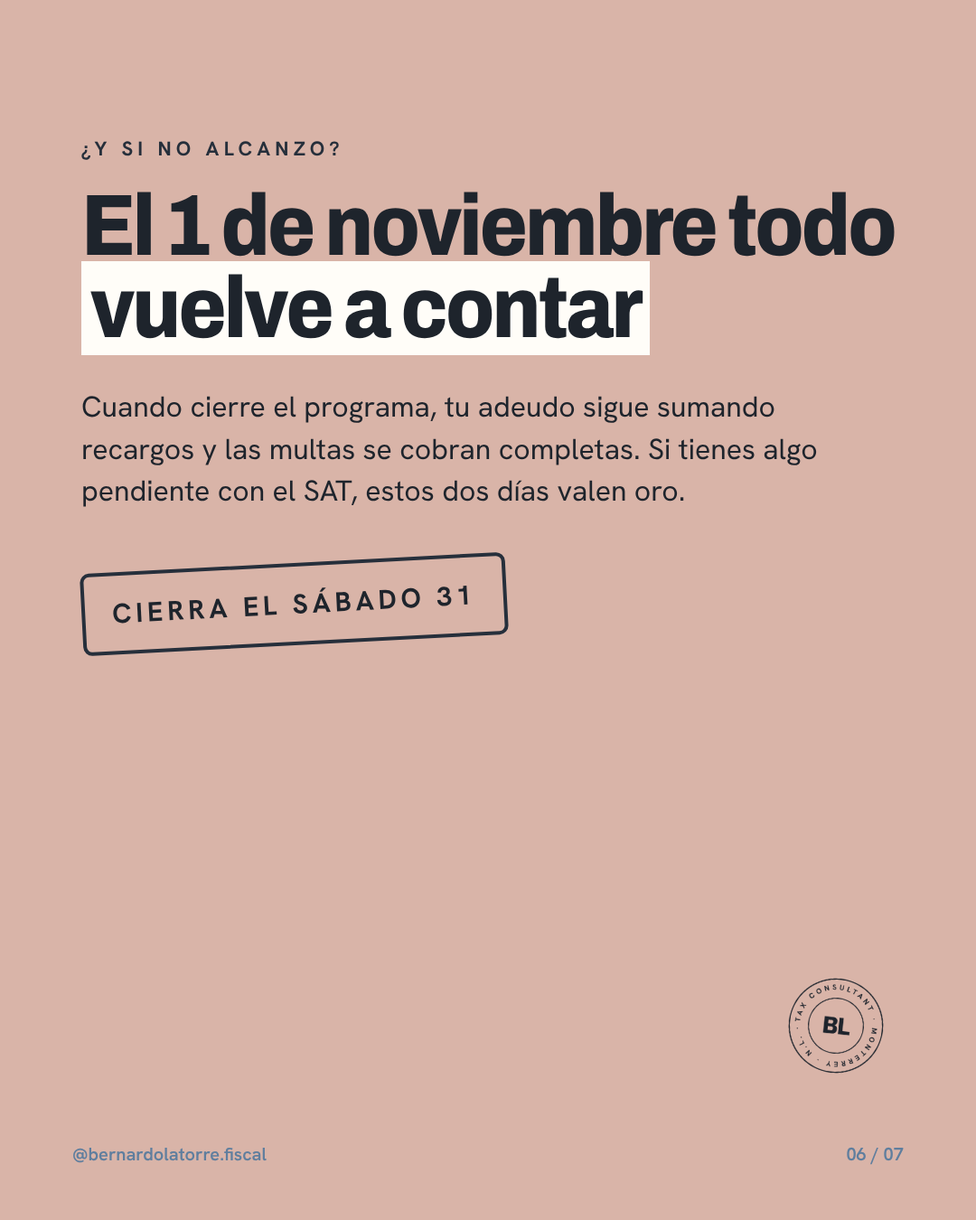
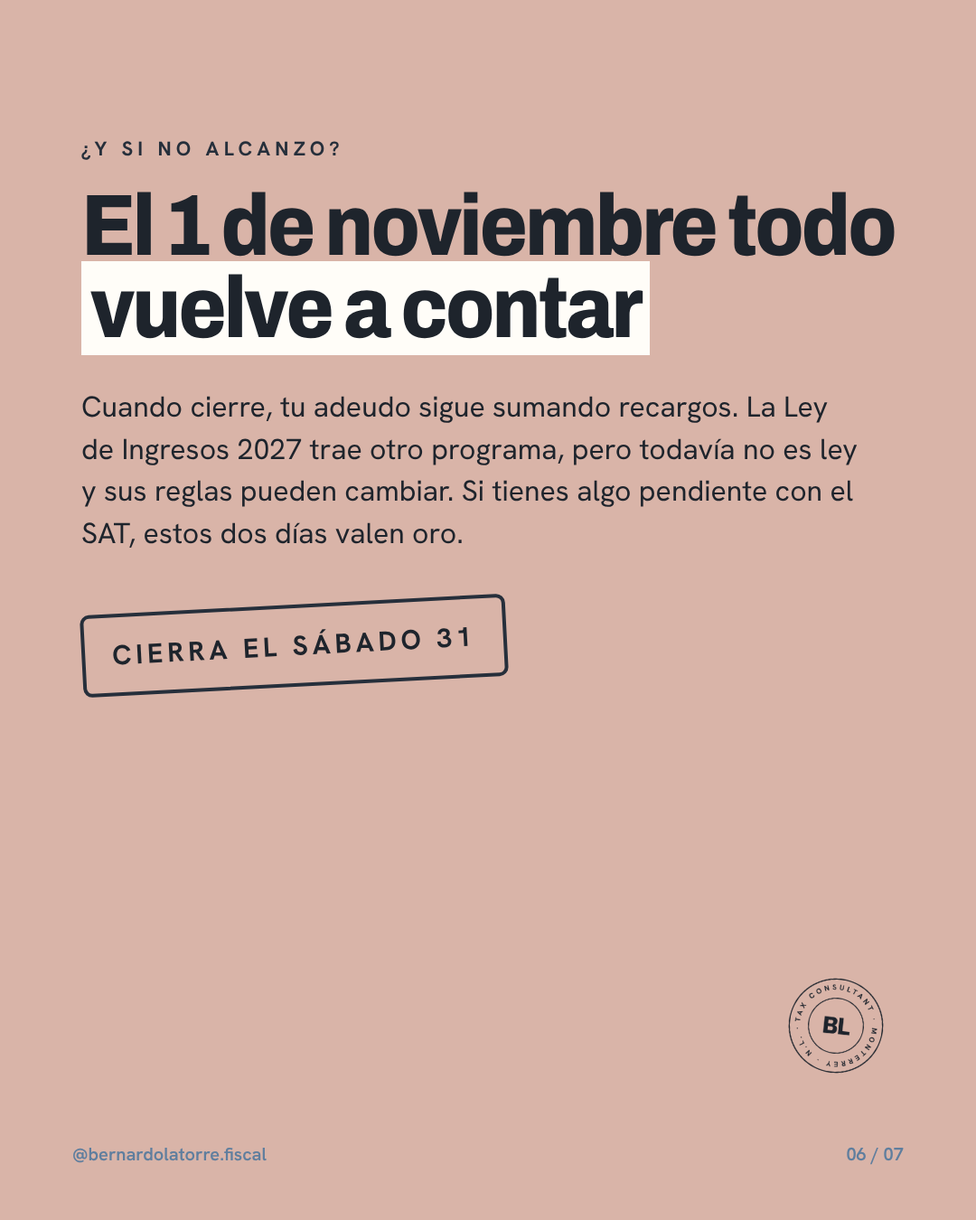
Nueva serie lunes 7:00 'Tu dosis semanal' (#1) + ajuste regularización jueves por programa LIF 2027
Claude-Session: https://claude.ai/code/session_01J2dboEZNzBYhxcXmwSfC74

Changed region(s): [[0.0611, 0.3111, 0.8861, 0.5911]]

diff --git a/recursos/plantillas/Dos1-02-Fiscal.dc.html b/recursos/plantillas/Dos1-02-Fiscal.dc.html
@@ -1,0 +1,51 @@
+<!doctype html>
+<html lang="es">
+<head>
+<meta charset="utf-8">
+<title>Sorbo 1: FISCAL</title>
+<script src="./support.js"></script>
+</head>
+<body>
+<x-dc>
+<helmet>
+<link rel="stylesheet" href="https://fonts.googleapis.com/css2?family=Archivo:wdth,wght@62..125,100..900&amp;family=Instrument+Serif:ital@0;1&amp;family=Hanken+Grotesk:wght@400;500;600;700&amp;display=swap">
+<style>
+body{margin:0}
+a{color:inherit}
+.bg-lino{background-color:#EEEAE1;background-image:url(/_blob/6c9eecc651dcae0e49c6e32a51e1513e);background-size:cover}
+.bg-papel{background-color:#F4F1EA;background-image:linear-gradient(rgba(95,126,158,0.10) 1px,transparent 1px),linear-gradient(90deg,rgba(95,126,158,0.10) 1px,transparent 1px),url(/_blob/5fe8c28b9943619ea44f604b391f1f8a);background-size:36px 36px,36px 36px,cover}
+.bg-sarga{background-color:#262F3B;background-image:url(/_blob/dadb3c074dd971422db84d954c63babd);background-size:cover}
+.hoja{background-color:#FFFDF8;background-image:linear-gradient(rgba(255,253,248,0.62),rgba(255,253,248,0.62)),url(/_blob/5fe8c28b9943619ea44f604b391f1f8a);background-size:cover}
+.sticker{filter: drop-shadow(5px 0 0 #fff) drop-shadow(-5px 0 0 #fff) drop-shadow(0 5px 0 #fff) drop-shadow(0 -5px 0 #fff) drop-shadow(0 14px 18px rgba(20,24,30,0.3))}
+.serif{font-family:'Archivo',sans-serif;font-weight:800;font-stretch:88%;letter-spacing:-0.03em}
+.serif em{font-style:normal!important}
+.kicker{font-size:22px;font-weight:600;letter-spacing:0.24em}
+</style>
+</helmet>
+<div class="" style="width: 1080px; height: 1350px; position: relative; overflow: hidden; font-family: 'Hanken Grotesk', sans-serif; color: #F4F1EA; isolation: isolate;">
+
+<div aria-hidden="true" style="position:absolute;inset:0;z-index:-1;overflow:hidden;background:#1C2027"><div style="position:absolute;left:-350px;top:-250px;width:750px;height:1100px;border-radius:50%;background:#E2B48F;filter:blur(110px)"></div><div style="position:absolute;left:-80px;top:-200px;width:700px;height:600px;border-radius:50%;background:#C98F7E;filter:blur(120px)"></div><div style="position:absolute;left:120px;top:-80px;width:900px;height:520px;border-radius:50%;background:#3E5C9A;filter:blur(120px)"></div><div style="position:absolute;left:-330px;top:650px;width:620px;height:900px;border-radius:50%;background:#D8A784;filter:blur(120px)"></div><div style="position:absolute;left:-100px;top:900px;width:650px;height:500px;border-radius:50%;background:#2F4A86;filter:blur(120px)"></div><svg width="1080" height="1350" style="position:absolute;inset:0;opacity:0.16;mix-blend-mode:overlay"><filter id="gr"><feTurbulence type="fractalNoise" baseFrequency="0.9" numOctaves="2" stitchTiles="stitch"/></filter><rect width="100%" height="100%" filter="url(#gr)"/></svg></div>
+<div style="position:absolute;left:90px;right:90px;top:96px;display:flex;align-items:center;gap:18px">
+<span class="serif" style="font-size:30px;letter-spacing:0;color:#F4F1EA;opacity:0.75">☕ SORBO 1</span>
+<span style="padding:10px 22px;border-radius:999px;background:#B7CFE6;color:#1E242C;font-size:22px;font-weight:700;letter-spacing:0.2em">FISCAL</span></div>
+<div style="position:absolute;right:70px;top:70px;opacity:0.9"><svg aria-hidden="true" width="110" height="110" viewBox="0 0 100 100" fill="none" stroke="#F4F1EA" stroke-width="4" stroke-linecap="round" stroke-linejoin="round"><path d="M20 44h50v20c0 13-11 22-25 22s-25-9-25-22z"/><path d="M70 50c11 0 15 4 15 9s-5 10-15 9"/><path d="M34 16c-4 5 4 9 0 15M46 12c-4 6 4 10 0 17M58 16c-4 5 4 9 0 15"/></svg></div>
+<div style="position:absolute;left:90px;right:90px;top:220px">
+<h2 class="serif" style="margin:0;font-size:104px;line-height:0.95;color:#F4F1EA">Viene otro <span style="background:#B7CFE6;color:#1E242C;padding:0 12px">perdón de multas</span></h2>
+<div style="margin-top:26px;display:flex;align-items:baseline;gap:20px"><span class="serif" style="font-size:150px;line-height:0.9;color:#B7CFE6">100%</span><span style="font-size:26px;line-height:1.3;color:rgba(244,241,234,0.8)">de descuento en<br>multas y recargos</span></div>
+<p style="margin:34px 0 0;font-size:34px;line-height:1.45;color:rgba(244,241,234,0.9);max-width:900px">El paquete fiscal 2027 pasó comisiones del Senado el 21 de octubre y esta semana lo vota el pleno. Trae un nuevo programa con hasta <b>100% de descuento en multas y recargos</b> para adeudos de 2025 y años anteriores.</p>
+
+<div style="margin-top:50px;padding:32px 38px;background:#F4F1EA;color:#1E242C;transform:rotate(-1deg);max-width:860px;box-shadow:0 16px 30px rgba(0,0,0,0.18)">
+<div style="font-size:20px;font-weight:700;letter-spacing:0.22em;color:#C98F7E;margin-bottom:10px">¿Y A TI QUÉ?</div>
+<div style="font-size:32px;line-height:1.42">El programa actual cierra este <b>sábado 31</b>. El de 2027 todavía no es ley: no dejes tu adeudo esperando algo que puede cambiar.</div></div></div>
+<div style="position: absolute; left: 80px; right: 80px; bottom: 60px; display: flex; justify-content: space-between; font-size: 20px; font-weight: 600; color: rgba(244,241,234,0.6)"><span>Expansión 21 y 22 oct · Senado (primera lectura)</span><span>02 / 05</span></div>
+</div>
+</x-dc>
+<script type="text/x-dc" data-dc-script data-props='{"marker":{"editor":"color","default":"#B7CFE6","options":["#B7CFE6","#A9C9A9","#D9B4A8"]},"$preview":{"width":1080,"height":1350}}'>
+class Component extends DCLogic {
+renderVals() {
+return { marker: this.props.marker ?? '#B7CFE6' };
+}
+}
+</script>
+</body>
+</html>

diff --git a/recursos/plantillas/Dos1-04-Legal.dc.html b/recursos/plantillas/Dos1-04-Legal.dc.html
@@ -1,0 +1,51 @@
+<!doctype html>
+<html lang="es">
+<head>
+<meta charset="utf-8">
+<title>Sorbo 3: LEGAL</title>
+<script src="./support.js"></script>
+</head>
+<body>
+<x-dc>
+<helmet>
+<link rel="stylesheet" href="https://fonts.googleapis.com/css2?family=Archivo:wdth,wght@62..125,100..900&amp;family=Instrument+Serif:ital@0;1&amp;family=Hanken+Grotesk:wght@400;500;600;700&amp;display=swap">
+<style>
+body{margin:0}
+a{color:inherit}
+.bg-lino{background-color:#EEEAE1;background-image:url(/_blob/6c9eecc651dcae0e49c6e32a51e1513e);background-size:cover}
+.bg-papel{background-color:#F4F1EA;background-image:linear-gradient(rgba(95,126,158,0.10) 1px,transparent 1px),linear-gradient(90deg,rgba(95,126,158,0.10) 1px,transparent 1px),url(/_blob/5fe8c28b9943619ea44f604b391f1f8a);background-size:36px 36px,36px 36px,cover}
+.bg-sarga{background-color:#262F3B;background-image:url(/_blob/dadb3c074dd971422db84d954c63babd);background-size:cover}
+.hoja{background-color:#FFFDF8;background-image:linear-gradient(rgba(255,253,248,0.62),rgba(255,253,248,0.62)),url(/_blob/5fe8c28b9943619ea44f604b391f1f8a);background-size:cover}
+.sticker{filter: drop-shadow(5px 0 0 #fff) drop-shadow(-5px 0 0 #fff) drop-shadow(0 5px 0 #fff) drop-shadow(0 -5px 0 #fff) drop-shadow(0 14px 18px rgba(20,24,30,0.3))}
+.serif{font-family:'Archivo',sans-serif;font-weight:800;font-stretch:88%;letter-spacing:-0.03em}
+.serif em{font-style:normal!important}
+.kicker{font-size:22px;font-weight:600;letter-spacing:0.24em}
+</style>
+</helmet>
+<div class="" style="width: 1080px; height: 1350px; position: relative; overflow: hidden; font-family: 'Hanken Grotesk', sans-serif; color: #1E242C; isolation: isolate;">
+
+<div aria-hidden="true" style="position:absolute;inset:0;z-index:-1;overflow:hidden;background:#EEF0EA"><div style="position:absolute;left:-250px;top:-250px;width:900px;height:800px;border-radius:50%;background:#A9C9A9;filter:blur(130px)"></div><div style="position:absolute;left:500px;top:-100px;width:800px;height:700px;border-radius:50%;background:#B7CFE6;filter:blur(130px)"></div><div style="position:absolute;left:200px;top:600px;width:900px;height:700px;border-radius:50%;background:#F4F1EA;filter:blur(120px)"></div><div style="position:absolute;left:-200px;top:900px;width:800px;height:600px;border-radius:50%;background:#CFE0CF;filter:blur(120px)"></div><div style="position:absolute;left:650px;top:950px;width:600px;height:500px;border-radius:50%;background:#D9B4A8;filter:blur(140px)"></div><svg width="1080" height="1350" style="position:absolute;inset:0;opacity:0.16;mix-blend-mode:overlay"><filter id="gr"><feTurbulence type="fractalNoise" baseFrequency="0.9" numOctaves="2" stitchTiles="stitch"/></filter><rect width="100%" height="100%" filter="url(#gr)"/></svg></div>
+<div style="position:absolute;left:90px;right:90px;top:96px;display:flex;align-items:center;gap:18px">
+<span class="serif" style="font-size:30px;letter-spacing:0;color:#1E242C;opacity:0.75">☕ SORBO 3</span>
+<span style="padding:10px 22px;border-radius:999px;background:#D9B4A8;color:#1E242C;font-size:22px;font-weight:700;letter-spacing:0.2em">LEGAL</span></div>
+<div style="position:absolute;right:70px;top:70px;opacity:0.9"><svg aria-hidden="true" width="110" height="110" viewBox="0 0 100 100" fill="none" stroke="#1E242C" stroke-width="4" stroke-linecap="round" stroke-linejoin="round"><path d="M20 44h50v20c0 13-11 22-25 22s-25-9-25-22z"/><path d="M70 50c11 0 15 4 15 9s-5 10-15 9"/><path d="M34 16c-4 5 4 9 0 15M46 12c-4 6 4 10 0 17M58 16c-4 5 4 9 0 15"/></svg></div>
+<div style="position:absolute;left:90px;right:90px;top:220px">
+<h2 class="serif" style="margin:0;font-size:104px;line-height:0.95;color:#1E242C">Tu casa va a tener <span style="background:#FFFDF8;padding:0 10px">su propia “CURP”</span></h2>
+<div style="margin-top:26px;display:flex;align-items:baseline;gap:20px"><span class="serif" style="font-size:150px;line-height:0.9;color:#262F3B">2027</span><span style="font-size:26px;line-height:1.3;color:#2B3542">trámites catastrales<br>en línea</span></div>
+<p style="margin:34px 0 0;font-size:34px;line-height:1.45;color:#2B3542;max-width:900px">Desde el 24 de octubre está vigente la nueva Ley General de Armonización Catastral y Registral: cada inmueble tendrá una <b>Clave Única Catastral</b> y los trámites pasarán a plataformas digitales desde 2027.</p>
+
+<div style="margin-top:50px;padding:32px 38px;background:#262F3B;color:#F4F1EA;transform:rotate(-1deg);max-width:860px;box-shadow:0 16px 30px rgba(0,0,0,0.18)">
+<div style="font-size:20px;font-weight:700;letter-spacing:0.22em;color:#C98F7E;margin-bottom:10px">¿Y A TI QUÉ?</div>
+<div style="font-size:32px;line-height:1.42">La ley no sube las tasas del predial. Pero si tu municipio actualiza el valor catastral de tu casa, sí podrías pagar más.</div></div></div>
+<div style="position: absolute; left: 80px; right: 80px; bottom: 60px; display: flex; justify-content: space-between; font-size: 20px; font-weight: 600; color: #5F7E9E"><span>Expansión Política, 25 oct</span><span>04 / 05</span></div>
+</div>
+</x-dc>
+<script type="text/x-dc" data-dc-script data-props='{"marker":{"editor":"color","default":"#B7CFE6","options":["#B7CFE6","#A9C9A9","#D9B4A8"]},"$preview":{"width":1080,"height":1350}}'>
+class Component extends DCLogic {
+renderVals() {
+return { marker: this.props.marker ?? '#B7CFE6' };
+}
+}
+</script>
+</body>
+</html>

diff --git a/recursos/plantillas/Dos1-03-Laboral.dc.html b/recursos/plantillas/Dos1-03-Laboral.dc.html
@@ -1,0 +1,51 @@
+<!doctype html>
+<html lang="es">
+<head>
+<meta charset="utf-8">
+<title>Sorbo 2: LABORAL · IMSS</title>
+<script src="./support.js"></script>
+</head>
+<body>
+<x-dc>
+<helmet>
+<link rel="stylesheet" href="https://fonts.googleapis.com/css2?family=Archivo:wdth,wght@62..125,100..900&amp;family=Instrument+Serif:ital@0;1&amp;family=Hanken+Grotesk:wght@400;500;600;700&amp;display=swap">
+<style>
+body{margin:0}
+a{color:inherit}
+.bg-lino{background-color:#EEEAE1;background-image:url(/_blob/6c9eecc651dcae0e49c6e32a51e1513e);background-size:cover}
+.bg-papel{background-color:#F4F1EA;background-image:linear-gradient(rgba(95,126,158,0.10) 1px,transparent 1px),linear-gradient(90deg,rgba(95,126,158,0.10) 1px,transparent 1px),url(/_blob/5fe8c28b9943619ea44f604b391f1f8a);background-size:36px 36px,36px 36px,cover}
+.bg-sarga{background-color:#262F3B;background-image:url(/_blob/dadb3c074dd971422db84d954c63babd);background-size:cover}
+.hoja{background-color:#FFFDF8;background-image:linear-gradient(rgba(255,253,248,0.62),rgba(255,253,248,0.62)),url(/_blob/5fe8c28b9943619ea44f604b391f1f8a);background-size:cover}
+.sticker{filter: drop-shadow(5px 0 0 #fff) drop-shadow(-5px 0 0 #fff) drop-shadow(0 5px 0 #fff) drop-shadow(0 -5px 0 #fff) drop-shadow(0 14px 18px rgba(20,24,30,0.3))}
+.serif{font-family:'Archivo',sans-serif;font-weight:800;font-stretch:88%;letter-spacing:-0.03em}
+.serif em{font-style:normal!important}
+.kicker{font-size:22px;font-weight:600;letter-spacing:0.24em}
+</style>
+</helmet>
+<div class="" style="width: 1080px; height: 1350px; position: relative; overflow: hidden; font-family: 'Hanken Grotesk', sans-serif; color: #F4F1EA; isolation: isolate;">
+
+<div aria-hidden="true" style="position:absolute;inset:0;z-index:-1;overflow:hidden;background:#151B23"><div style="position:absolute;left:450px;top:-350px;width:1000px;height:900px;border-radius:50%;background:#7FA3C4;filter:blur(140px)"></div><div style="position:absolute;left:650px;top:-150px;width:600px;height:500px;border-radius:50%;background:#B7CFE6;filter:blur(110px)"></div><div style="position:absolute;left:-300px;top:900px;width:700px;height:600px;border-radius:50%;background:#C98F7E;filter:blur(160px)"></div><div style="position:absolute;left:-200px;top:300px;width:800px;height:700px;border-radius:50%;background:#1F2E40;filter:blur(120px)"></div><svg width="1080" height="1350" style="position:absolute;inset:0;opacity:0.16;mix-blend-mode:overlay"><filter id="gr"><feTurbulence type="fractalNoise" baseFrequency="0.9" numOctaves="2" stitchTiles="stitch"/></filter><rect width="100%" height="100%" filter="url(#gr)"/></svg></div>
+<div style="position:absolute;left:90px;right:90px;top:96px;display:flex;align-items:center;gap:18px">
+<span class="serif" style="font-size:30px;letter-spacing:0;color:#F4F1EA;opacity:0.75">☕ SORBO 2</span>
+<span style="padding:10px 22px;border-radius:999px;background:#A9C9A9;color:#1E242C;font-size:22px;font-weight:700;letter-spacing:0.2em">LABORAL · IMSS</span></div>
+<div style="position:absolute;right:70px;top:70px;opacity:0.9"><svg aria-hidden="true" width="110" height="110" viewBox="0 0 100 100" fill="none" stroke="#F4F1EA" stroke-width="4" stroke-linecap="round" stroke-linejoin="round"><path d="M20 44h50v20c0 13-11 22-25 22s-25-9-25-22z"/><path d="M70 50c11 0 15 4 15 9s-5 10-15 9"/><path d="M34 16c-4 5 4 9 0 15M46 12c-4 6 4 10 0 17M58 16c-4 5 4 9 0 15"/></svg></div>
+<div style="position:absolute;left:90px;right:90px;top:220px">
+<h2 class="serif" style="margin:0;font-size:104px;line-height:0.95;color:#F4F1EA">La Modalidad 40 <span style="background:#B7CFE6;color:#1E242C;padding:0 12px">ya tiene tope</span></h2>
+<div style="margin-top:22px;display:flex;align-items:baseline;gap:20px"><span class="serif" style="font-size:150px;line-height:0.9;color:#A9C9A9">+1 UMA</span><span style="font-size:26px;line-height:1.3;color:rgba(244,241,234,0.8)">máximo sobre<br>tu último salario</span></div>
+<p style="margin:34px 0 0;font-size:34px;line-height:1.45;color:rgba(244,241,234,0.9);max-width:900px">Desde el 22 de octubre, quien entre a la Modalidad 40 solo puede cotizar con su último salario registrado más una UMA. Antes podías subir hasta 25 UMA. Y ya no hay inscripciones con fecha hacia atrás.</p>
+
+<div style="margin-top:50px;padding:32px 38px;background:#F4F1EA;color:#1E242C;transform:rotate(-1deg);max-width:860px;box-shadow:0 16px 30px rgba(0,0,0,0.18)">
+<div style="font-size:20px;font-weight:700;letter-spacing:0.22em;color:#C98F7E;margin-bottom:10px">¿Y A TI QUÉ?</div>
+<div style="font-size:32px;line-height:1.42">Si ya estabas inscrito, conservas tus condiciones. Si planeabas tu pensión con Modalidad 40, toca hacer números otra vez.</div></div></div>
+<div style="position: absolute; left: 80px; right: 80px; bottom: 60px; display: flex; justify-content: space-between; font-size: 20px; font-weight: 600; color: rgba(244,241,234,0.6)"><span>Acuerdo IMSS, DOF 21 oct · Expansión, Zeta</span><span>03 / 05</span></div>
+</div>
+</x-dc>
+<script type="text/x-dc" data-dc-script data-props='{"marker":{"editor":"color","default":"#B7CFE6","options":["#B7CFE6","#A9C9A9","#D9B4A8"]},"$preview":{"width":1080,"height":1350}}'>
+class Component extends DCLogic {
+renderVals() {
+return { marker: this.props.marker ?? '#B7CFE6' };
+}
+}
+</script>
+</body>
+</html>

diff --git a/recursos/plantillas/Dos1-05-Cierre.dc.html b/recursos/plantillas/Dos1-05-Cierre.dc.html
@@ -1,0 +1,52 @@
+<!doctype html>
+<html lang="es">
+<head>
+<meta charset="utf-8">
+<title>Cierre</title>
+<script src="./support.js"></script>
+</head>
+<body>
+<x-dc>
+<helmet>
+<link rel="stylesheet" href="https://fonts.googleapis.com/css2?family=Archivo:wdth,wght@62..125,100..900&amp;family=Instrument+Serif:ital@0;1&amp;family=Hanken+Grotesk:wght@400;500;600;700&amp;display=swap">
+<style>
+body{margin:0}
+a{color:inherit}
+.bg-lino{background-color:#EEEAE1;background-image:url(/_blob/6c9eecc651dcae0e49c6e32a51e1513e);background-size:cover}
+.bg-papel{background-color:#F4F1EA;background-image:linear-gradient(rgba(95,126,158,0.10) 1px,transparent 1px),linear-gradient(90deg,rgba(95,126,158,0.10) 1px,transparent 1px),url(/_blob/5fe8c28b9943619ea44f604b391f1f8a);background-size:36px 36px,36px 36px,cover}
+.bg-sarga{background-color:#262F3B;background-image:url(/_blob/dadb3c074dd971422db84d954c63babd);background-size:cover}
+.hoja{background-color:#FFFDF8;background-image:linear-gradient(rgba(255,253,248,0.62),rgba(255,253,248,0.62)),url(/_blob/5fe8c28b9943619ea44f604b391f1f8a);background-size:cover}
+.sticker{filter: drop-shadow(5px 0 0 #fff) drop-shadow(-5px 0 0 #fff) drop-shadow(0 5px 0 #fff) drop-shadow(0 -5px 0 #fff) drop-shadow(0 14px 18px rgba(20,24,30,0.3))}
+.serif{font-family:'Archivo',sans-serif;font-weight:800;font-stretch:88%;letter-spacing:-0.03em}
+.serif em{font-style:normal!important}
+.kicker{font-size:22px;font-weight:600;letter-spacing:0.24em}
+</style>
+</helmet>
+<div class="" style="width: 1080px; height: 1350px; position: relative; overflow: hidden; font-family: 'Hanken Grotesk', sans-serif; color: #F4F1EA; isolation: isolate;">
+
+<div aria-hidden="true" style="position:absolute;inset:0;z-index:-1;overflow:hidden;background:#1A2129"><div style="position:absolute;left:-250px;top:-300px;width:900px;height:700px;border-radius:50%;background:#3E5C9A;filter:blur(140px)"></div><div style="position:absolute;left:500px;top:700px;width:900px;height:900px;border-radius:50%;background:#C98F7E;filter:blur(150px)"></div><div style="position:absolute;left:650px;top:950px;width:600px;height:500px;border-radius:50%;background:#E2B48F;filter:blur(130px)"></div><div style="position:absolute;left:-300px;top:500px;width:800px;height:600px;border-radius:50%;background:#1F2E40;filter:blur(120px)"></div><svg width="1080" height="1350" style="position:absolute;inset:0;opacity:0.16;mix-blend-mode:overlay"><filter id="gr"><feTurbulence type="fractalNoise" baseFrequency="0.9" numOctaves="2" stitchTiles="stitch"/></filter><rect width="100%" height="100%" filter="url(#gr)"/></svg></div>
+<img src="/_blob/5b8391f45478910a1d0d8ca2823faf9b" alt="" aria-hidden="true" style="position: absolute; right: 80px; top: 80px; width: 130px; height: auto; transform: rotate(-8deg)">
+<div aria-hidden="true" class="serif" style="position:absolute;left:40px;bottom:300px;font-size:215px;line-height:0.8;letter-spacing:-0.05em;color:rgba(183,207,230,0.22);white-space:nowrap">LATORRE</div><img src="/_blob/25bcb8fe94907e94b0640cf81bd101a6" alt="Bernardo Latorre, Tax Consultant" style="position: absolute; right: -80px; bottom: 0; width: 640px; height: auto; filter: drop-shadow(0 20px 30px rgba(0,0,0,0.4))">
+<div style="position: relative; height: 100%; box-sizing: border-box; padding: 150px 80px 64px; display: flex; flex-direction: column; gap: 30px">
+<h2 class="serif" style="margin: 0; font-size: 92px; line-height: 0.95">¿Cuál de los 3<br><span style="color: #B7CFE6">te pegó más?</span></h2>
+<p style="margin: 0; max-width: 470px; font-size: 30px; line-height: 1.45; color: rgba(244,241,234,0.88)">Cada lunes te traigo lo que importa en lo fiscal, laboral y legal. Y si alguno te toca de cerca, en GGTZ te ayudamos.</p>
+<div style="align-self: flex-start; display: inline-flex; align-items: center; gap: 18px; padding: 26px 40px; background: #F4F1EA; color: #262F3B; font-size: 28px; font-weight: 700; border-radius: 4px">Agenda tu asesoría
+<svg aria-hidden="true" width="30" height="20" viewBox="0 0 40 24" fill="none" stroke="#262F3B" stroke-width="2.4"><path d="M2 12h34M26 3l10 9-10 9"></path></svg></div>
+<div style="max-width: 440px; padding: 22px 28px; background: rgba(244,241,234,0.08); border: 1px solid rgba(244,241,234,0.22); transform: rotate(-1.5deg); font-size: 25px; line-height: 1.4">Comenta 1, 2 o 3 y guárdalo para tu próximo cafecito ☕</div>
+<div style="margin-top: auto; display: flex; flex-direction: column; gap: 8px; font-size: 24px; font-weight: 500">
+<span>81 2758 0277 · @bernardolatorre.fiscal</span>
+<img src="/_blob/916dbd49a3cb1e203b606fc4f660fbea" alt="Bernardo Latorre, Tax Consultant" style="width: 320px; height: auto; margin-left: -8px">
+<span style="font-size: 15px; font-weight: 700; letter-spacing: 0.26em; color: rgba(244,241,234,0.7)">SOCIO EN GGTZ CONSULTORES</span>
+</div>
+</div>
+</div>
+</x-dc>
+<script type="text/x-dc" data-dc-script data-props='{"marker":{"editor":"color","default":"#B7CFE6","options":["#B7CFE6","#A9C9A9","#D9B4A8"]},"$preview":{"width":1080,"height":1350}}'>
+class Component extends DCLogic {
+renderVals() {
+return { marker: this.props.marker ?? '#B7CFE6' };
+}
+}
+</script>
+</body>
+</html>

diff --git a/recursos/plantillas/Dos1-01-Portada.dc.html b/recursos/plantillas/Dos1-01-Portada.dc.html
@@ -1,0 +1,46 @@
+<!doctype html>
+<html lang="es">
+<head>
+<meta charset="utf-8">
+<title>Tu dosis semanal</title>
+<script src="./support.js"></script>
+</head>
+<body>
+<x-dc>
+<helmet>
+<link rel="stylesheet" href="https://fonts.googleapis.com/css2?family=Archivo:wdth,wght@62..125,100..900&amp;family=Instrument+Serif:ital@0;1&amp;family=Hanken+Grotesk:wght@400;500;600;700&amp;display=swap">
+<style>
+body{margin:0}
+a{color:inherit}
+.bg-lino{background-color:#EEEAE1;background-image:url(/_blob/6c9eecc651dcae0e49c6e32a51e1513e);background-size:cover}
+.bg-papel{background-color:#F4F1EA;background-image:linear-gradient(rgba(95,126,158,0.10) 1px,transparent 1px),linear-gradient(90deg,rgba(95,126,158,0.10) 1px,transparent 1px),url(/_blob/5fe8c28b9943619ea44f604b391f1f8a);background-size:36px 36px,36px 36px,cover}
+.bg-sarga{background-color:#262F3B;background-image:url(/_blob/dadb3c074dd971422db84d954c63babd);background-size:cover}
+.hoja{background-color:#FFFDF8;background-image:linear-gradient(rgba(255,253,248,0.62),rgba(255,253,248,0.62)),url(/_blob/5fe8c28b9943619ea44f604b391f1f8a);background-size:cover}
+.sticker{filter: drop-shadow(5px 0 0 #fff) drop-shadow(-5px 0 0 #fff) drop-shadow(0 5px 0 #fff) drop-shadow(0 -5px 0 #fff) drop-shadow(0 14px 18px rgba(20,24,30,0.3))}
+.serif{font-family:'Archivo',sans-serif;font-weight:800;font-stretch:88%;letter-spacing:-0.03em}
+.serif em{font-style:normal!important}
+.kicker{font-size:22px;font-weight:600;letter-spacing:0.24em}
+</style>
+</helmet>
+<div class="" style="width: 1080px; height: 1350px; position: relative; overflow: hidden; font-family: 'Hanken Grotesk', sans-serif; color: #F4F1EA;">
+
+<img src="/_blob/15e9c1c0c5513d53a848a5eb62972dae" alt="Café en una mesa de terraza" style="position:absolute;inset:0;width:100%;height:100%;object-fit:cover;object-position:50% 75%">
+<div aria-hidden="true" style="position:absolute;inset:0;background:linear-gradient(180deg,rgba(20,24,30,0.92) 0%,rgba(20,24,30,0.78) 42%,rgba(20,24,30,0.15) 72%,rgba(20,24,30,0.35) 100%)"></div>
+<img src="/_blob/5b8391f45478910a1d0d8ca2823faf9b" alt="Sello BL, Bernardo Latorre Tax Consultant" style="position:absolute;right:80px;top:80px;width:120px;transform:rotate(-8deg)">
+<div style="position:absolute;left:90px;top:100px;font-size:24px;font-weight:700;letter-spacing:0.24em;color:#D9B4A8">☕ TU DOSIS SEMANAL · 19–25 OCT</div>
+<h1 class="serif" style="position:absolute;left:90px;right:90px;top:190px;margin:0;font-size:106px;line-height:0.95">Lo que pasó esta semana, <span style="color:#B7CFE6">mientras te tomas el cafecito</span></h1>
+<div style="position:absolute;left:90px;top:640px;display:flex;gap:14px">
+<span style="padding:12px 24px;border-radius:999px;background:#B7CFE6;color:#1E242C;font-size:22px;font-weight:700;letter-spacing:0.18em">FISCAL</span><span style="padding:12px 24px;border-radius:999px;background:#A9C9A9;color:#1E242C;font-size:22px;font-weight:700;letter-spacing:0.18em">LABORAL</span><span style="padding:12px 24px;border-radius:999px;background:#D9B4A8;color:#1E242C;font-size:22px;font-weight:700;letter-spacing:0.18em">LEGAL</span></div>
+<div style="position:absolute;left:90px;bottom:70px;font-size:20px;font-weight:600;color:rgba(244,241,234,0.8)">@bernardolatorre.fiscal</div>
+<div style="position:absolute;right:80px;bottom:70px;font-size:22px;font-weight:700;color:#F4F1EA">3 sorbos →</div>
+</div>
+</x-dc>
+<script type="text/x-dc" data-dc-script data-props='{"marker":{"editor":"color","default":"#B7CFE6","options":["#B7CFE6","#A9C9A9","#D9B4A8"]},"$preview":{"width":1080,"height":1350}}'>
+class Component extends DCLogic {
+renderVals() {
+return { marker: this.props.marker ?? '#B7CFE6' };
+}
+}
+</script>
+</body>
+</html>

diff --git a/recursos/plantillas/Reg-06-Despues.dc.html b/recursos/plantillas/Reg-06-Despues.dc.html
@@ -27,7 +27,7 @@ a{color:inherit}
 <div style="position:absolute;inset:0;background:#D9B4A8"></div>
 <div style="position:absolute;left:90px;right:90px;top:150px"><div class="kicker" style="font-weight:700;color:#262F3B">¿Y SI NO ALCANZO?</div>
 <h2 class="serif" style="margin:26px 0 0;font-size:96px;line-height:0.95">El 1 de noviembre todo <span style="background:#FFFDF8;padding:0 10px">vuelve a contar</span></h2>
-<p style="margin:40px 0 0;font-size:32px;line-height:1.45;max-width:860px">Cuando cierre el programa, tu adeudo sigue sumando recargos y las multas se cobran completas. Si tienes algo pendiente con el SAT, estos dos días valen oro.</p>
+<p style="margin:40px 0 0;font-size:32px;line-height:1.45;max-width:860px">Cuando cierre, tu adeudo sigue sumando recargos. La Ley de Ingresos 2027 trae otro programa, pero todavía no es ley y sus reglas pueden cambiar. Si tienes algo pendiente con el SAT, estos dos días valen oro.</p>
 <div style="margin-top:56px;display:inline-block;padding:22px 30px;border:4px solid #262F3B;border-radius:10px;transform:rotate(-3deg);font-size:30px;font-weight:700;letter-spacing:0.16em">CIERRA EL SÁBADO 31</div></div>
 <img src="/_blob/89b150b4a0eaffd521105fa61198e074" alt="Sello BL, Bernardo Latorre Tax Consultant" style="position:absolute;left:870px;top:1080px;width:110px;transform:rotate(6deg)">
 <div style="position: absolute; left: 80px; right: 80px; bottom: 60px; display: flex; justify-content: space-between; font-size: 20px; font-weight: 600; color: #5F7E9E"><span>@bernardolatorre.fiscal</span><span>06 / 07</span></div>

diff --git a/recursos/plantillas/_gen_dosis_2026_10_26.py b/recursos/plantillas/_gen_dosis_2026_10_26.py
@@ -1,0 +1,88 @@
+# "Tu dosis semanal" (lunes 7:00) #1 — semana del 19 al 25 oct 2026 (Dos1-*).
+# Formato: portada con foto de café de Berny + 3 "sorbos" (fiscal, laboral, legal) en degradado + cierre().
+# Fuentes: Expansión 21 y 22 oct (Senado comisiones, programa de regularización 2027), Quadratín 21 oct (primera lectura),
+# Expansión 21 oct y Zeta Tijuana (acuerdo IMSS Modalidad 40, DOF 21 oct, vigente 22 oct), Expansión Política 25 oct (ley catastral).
+import importlib.util as _u, pathlib
+HERE = pathlib.Path(__file__).parent
+def _load(n):
+    s = _u.spec_from_file_location(n, HERE / f"{n}.py"); m = _u.module_from_spec(s); s.loader.exec_module(m); return m
+G = _load("_gen_oct20_22"); M = _load("_marca")
+page, foot, cierre = G.page, G.foot, G.cierre
+ISO = " isolation: isolate;"
+H = "@bernardolatorre.fiscal"
+T = 5
+SEMANA = "19–25 OCT"
+CAFE = "/_blob/15e9c1c0c5513d53a848a5eb62972dae"
+
+def taza(color="#F4F1EA", w=150):
+    # Taza de línea con vapor (pieza fija de la serie)
+    return (f'<svg aria-hidden="true" width="{w}" height="{w}" viewBox="0 0 100 100" fill="none" stroke="{color}" stroke-width="4" stroke-linecap="round" stroke-linejoin="round">'
+            '<path d="M20 44h50v20c0 13-11 22-25 22s-25-9-25-22z"/><path d="M70 50c11 0 15 4 15 9s-5 10-15 9"/>'
+            '<path d="M34 16c-4 5 4 9 0 15M46 12c-4 6 4 10 0 17M58 16c-4 5 4 9 0 15"/></svg>')
+
+def sorbo(n, cat, chip, fondo, titulo, grande, cuerpo, ati, fuente, dark=True, extra=""):
+    fg = "#F4F1EA" if dark else "#1E242C"
+    sub = "rgba(244,241,234,0.9)" if dark else "#2B3542"
+    caja_bg = "#F4F1EA" if dark else "#262F3B"; caja_fg = "#1E242C" if dark else "#F4F1EA"
+    return page(f"Sorbo {n}: {cat}", "", fg, f"""
+{M.grad(fondo)}
+<div style="position:absolute;left:90px;right:90px;top:96px;display:flex;align-items:center;gap:18px">
+<span class="serif" style="font-size:30px;letter-spacing:0;color:{fg};opacity:0.75">☕ SORBO {n}</span>
+<span style="padding:10px 22px;border-radius:999px;background:{chip};color:#1E242C;font-size:22px;font-weight:700;letter-spacing:0.2em">{cat}</span></div>
+<div style="position:absolute;right:70px;top:70px;opacity:0.9">{taza(fg, 110)}</div>
+<div style="position:absolute;left:90px;right:90px;top:220px">
+<h2 class="serif" style="margin:0;font-size:104px;line-height:0.95;color:{fg}">{titulo}</h2>
+{grande}
+<p style="margin:34px 0 0;font-size:34px;line-height:1.45;color:{sub};max-width:900px">{cuerpo}</p>
+{extra}
+<div style="margin-top:50px;padding:32px 38px;background:{caja_bg};color:{caja_fg};transform:rotate(-1deg);max-width:860px;box-shadow:0 16px 30px rgba(0,0,0,0.18)">
+<div style="font-size:20px;font-weight:700;letter-spacing:0.22em;color:#C98F7E;margin-bottom:10px">¿Y A TI QUÉ?</div>
+<div style="font-size:32px;line-height:1.42">{ati}</div></div></div>
+{foot(fuente, n + 1, T, dark)}""", ISO)
+
+S = []
+
+# 1 Portada: foto del café de Berny + degradado
+S.append(("Dos1-01-Portada", page("Tu dosis semanal", "", "#F4F1EA", f"""
+<img src="{CAFE}" alt="Café en una mesa de terraza" style="position:absolute;inset:0;width:100%;height:100%;object-fit:cover;object-position:50% 75%">
+<div aria-hidden="true" style="position:absolute;inset:0;background:linear-gradient(180deg,rgba(20,24,30,0.92) 0%,rgba(20,24,30,0.78) 42%,rgba(20,24,30,0.15) 72%,rgba(20,24,30,0.35) 100%)"></div>
+<img src="{M.SELLO_MARFIL}" alt="Sello BL, Bernardo Latorre Tax Consultant" style="position:absolute;right:80px;top:80px;width:120px;transform:rotate(-8deg)">
+<div style="position:absolute;left:90px;top:100px;font-size:24px;font-weight:700;letter-spacing:0.24em;color:#D9B4A8">☕ TU DOSIS SEMANAL · {SEMANA}</div>
+<h1 class="serif" style="position:absolute;left:90px;right:90px;top:190px;margin:0;font-size:106px;line-height:0.95">Lo que pasó esta semana, <span style="color:#B7CFE6">mientras te tomas el cafecito</span></h1>
+<div style="position:absolute;left:90px;top:640px;display:flex;gap:14px">
+{''.join(f'<span style="padding:12px 24px;border-radius:999px;background:{c};color:#1E242C;font-size:22px;font-weight:700;letter-spacing:0.18em">{t}</span>' for t, c in [("FISCAL", "#B7CFE6"), ("LABORAL", "#A9C9A9"), ("LEGAL", "#D9B4A8")])}</div>
+<div style="position:absolute;left:90px;bottom:70px;font-size:20px;font-weight:600;color:rgba(244,241,234,0.8)">{H}</div>
+<div style="position:absolute;right:80px;bottom:70px;font-size:22px;font-weight:700;color:#F4F1EA">3 sorbos →</div>""")))
+
+# 2 Fiscal
+S.append(("Dos1-02-Fiscal", sorbo(1, "FISCAL", "#B7CFE6", "sierra",
+    'Viene otro '+'<span style="background:#B7CFE6;color:#1E242C;padding:0 12px">perdón de multas</span>',
+    '<div style="margin-top:26px;display:flex;align-items:baseline;gap:20px"><span class="serif" style="font-size:150px;line-height:0.9;color:#B7CFE6">100%</span><span style="font-size:26px;line-height:1.3;color:rgba(244,241,234,0.8)">de descuento en<br>multas y recargos</span></div>',
+    "El paquete fiscal 2027 pasó comisiones del Senado el 21 de octubre y esta semana lo vota el pleno. Trae un nuevo programa con hasta <b>100% de descuento en multas y recargos</b> para adeudos de 2025 y años anteriores.",
+    "El programa actual cierra este <b>sábado 31</b>. El de 2027 todavía no es ley: no dejes tu adeudo esperando algo que puede cambiar.",
+    "Expansión 21 y 22 oct · Senado (primera lectura)")))
+
+# 3 Laboral / IMSS
+S.append(("Dos1-03-Laboral", sorbo(2, "LABORAL · IMSS", "#A9C9A9", "noche",
+    'La Modalidad 40 '+'<span style="background:#B7CFE6;color:#1E242C;padding:0 12px">ya tiene tope</span>',
+    '<div style="margin-top:22px;display:flex;align-items:baseline;gap:20px"><span class="serif" style="font-size:150px;line-height:0.9;color:#A9C9A9">+1 UMA</span><span style="font-size:26px;line-height:1.3;color:rgba(244,241,234,0.8)">máximo sobre<br>tu último salario</span></div>',
+    "Desde el 22 de octubre, quien entre a la Modalidad 40 solo puede cotizar con su último salario registrado más una UMA. Antes podías subir hasta 25 UMA. Y ya no hay inscripciones con fecha hacia atrás.",
+    "Si ya estabas inscrito, conservas tus condiciones. Si planeabas tu pensión con Modalidad 40, toca hacer números otra vez.",
+    "Acuerdo IMSS, DOF 21 oct · Expansión, Zeta")))
+
+# 4 Legal
+S.append(("Dos1-04-Legal", sorbo(3, "LEGAL", "#D9B4A8", "salvia",
+    'Tu casa va a tener <span style="background:#FFFDF8;padding:0 10px">su propia “CURP”</span>',
+    '<div style="margin-top:26px;display:flex;align-items:baseline;gap:20px"><span class="serif" style="font-size:150px;line-height:0.9;color:#262F3B">2027</span><span style="font-size:26px;line-height:1.3;color:#2B3542">trámites catastrales<br>en línea</span></div>',
+    "Desde el 24 de octubre está vigente la nueva Ley General de Armonización Catastral y Registral: cada inmueble tendrá una <b>Clave Única Catastral</b> y los trámites pasarán a plataformas digitales desde 2027.",
+    "La ley no sube las tasas del predial. Pero si tu municipio actualiza el valor catastral de tu casa, sí podrías pagar más.",
+    "Expansión Política, 25 oct", dark=False)))
+
+# 5 Cierre
+S.append(("Dos1-05-Cierre", cierre("¿Cuál de los 3", "te pegó más?",
+    "Cada lunes te traigo lo que importa en lo fiscal, laboral y legal. Y si alguno te toca de cerca, en GGTZ te ayudamos.",
+    "Agenda tu asesoría", "Comenta 1, 2 o 3 y guárdalo para tu próximo cafecito ☕", fondo="atardecer")))
+
+for name, html in S:
+    (HERE / f"{name}.dc.html").write_text(html)
+print("ok", len(S))

diff --git a/recursos/plantillas/_gen_oct27_29.py b/recursos/plantillas/_gen_oct27_29.py
@@ -187,7 +187,7 @@ R.append(("Reg-06-Despues", page("Después del 31", "", "#1E242C", f"""
 <div style="position:absolute;inset:0;background:#D9B4A8"></div>
 <div style="position:absolute;left:90px;right:90px;top:150px">{tag("¿Y SI NO ALCANZO?", "#262F3B")}
 <h2 class="serif" style="margin:26px 0 0;font-size:96px;line-height:0.95">El 1 de noviembre todo <span style="background:#FFFDF8;padding:0 10px">vuelve a contar</span></h2>
-<p style="margin:40px 0 0;font-size:32px;line-height:1.45;max-width:860px">Cuando cierre el programa, tu adeudo sigue sumando recargos y las multas se cobran completas. Si tienes algo pendiente con el SAT, estos dos días valen oro.</p>
+<p style="margin:40px 0 0;font-size:32px;line-height:1.45;max-width:860px">Cuando cierre, tu adeudo sigue sumando recargos. La Ley de Ingresos 2027 trae otro programa, pero todavía no es ley y sus reglas pueden cambiar. Si tienes algo pendiente con el SAT, estos dos días valen oro.</p>
 <div style="margin-top:56px;display:inline-block;padding:22px 30px;border:4px solid #262F3B;border-radius:10px;transform:rotate(-3deg);font-size:30px;font-weight:700;letter-spacing:0.16em">CIERRA EL SÁBADO 31</div></div>
 {sello(M.SELLO_PIZARRA, 870, 1080, 110, 6)}
 {foot(H, 6, T2)}""")))

diff --git a/recursos/historial.md b/recursos/historial.md
@@ -20,6 +20,7 @@ La tarea programada lee este archivo antes de crear un carrusel (para no repetir
 | 2026-10-23 (viernes 21:45, publicado de inmediato a pedido de Berny) | Historias de despacho Ep. 02: sello digital restringido por cambiarse de local sin presentar el aviso de cambio de domicilio (arts. 27 B fr. II y III y 17-H Bis fr. III CFF; art. 29 fr. IV RCFF) | Formato Historias v2.1: papel claro + tarjeta negra tipo post de X (solo texto) | Sello BL pequeño bajo la tarjeta de la última lámina (generador _gen_his02_domicilio.py, prefijo His2) | ninguna (solo texto) |
 | 2026-10-24 | Historias de despacho Ep. 03: factura de una venta que se cayó y no se canceló; plazo para cancelar CFDI (art. 29-A CFF), multa 5%–10% (arts. 81 fr. XLVI y 82 fr. XLII CFF), ingreso acumulable al facturar (art. 17 fr. I a) LISR) | Formato Historias v2.1: papel claro + tarjeta negra tipo post de X (solo texto) | Sello BL pequeño bajo la tarjeta de la última lámina (generador _gen_his03_cancelar_cfdi.py, prefijo His3) | ninguna (solo texto) |
 | 2026-10-19 | Lunes legal #1: ¿Tu equipo trabaja sin contrato? (LFT arts. 24, 25, 26, 35, 39-A y 784) | Degradado sierra + sello BL + etiqueta ⚖ LUNES LEGAL + título Archivo grande "sin contrato?" en azul polvo (motivo: papel/firma) | Mito sobre foto; carga de la prueba sobre expedientes; lista numerada en degradado noche; checklist en hoja sobre papel; plazos en degradado salvia; cierre atardecer con texto GGTZ (generador _gen_leg_contrato.py, prefijo Leg1) | mano-firmando-documento, pilas-de-documentos |
+| 2026-10-26 | Tu dosis semanal #1 (lunes 7:00, semana 19–25 oct): nuevo programa de regularización en LIF 2027 (comisiones del Senado), tope de +1 UMA en Modalidad 40 (acuerdo IMSS DOF 21 oct), Ley General de Armonización Catastral y Registral vigente 24 oct | Foto de café de Berny con degradado oscuro + chips FISCAL/LABORAL/LEGAL + sello BL (motivo: café) | 3 sorbos en degradados sierra/noche/salvia con cifra gigante y caja "¿Y a ti qué?"; cierre revista | vida-cafe-terraza-playa |
 | (sin publicar) | Tus primeros clientes como contador (idea de Berny, ref. @cooltura.fiscal; audiencia: colegas) | Fondo salvia liso, título centrado grande, ruta punteada "Big Four → Tu propio despacho" con pin terracota (motivo: camino/ruta, sin foto) | Cita grande; círculos concéntricos; tarjetas de presentación antes/después; calendario semanal; red de alianzas; ruta de pasos con línea | mecanico-taller, barberia, florista-mercado-celular, cafe-laptop-trabajo, sat-portal-home-movil, cerro-de-la-silla-atardecer |
 
 Temas ya cubiertos que no se repiten: depósitos en efectivo y discrepancia fiscal (¿el SAT ve tu cuenta de banco?), último aviso de la regularización fiscal 2026, retención de ISR por intereses 0.68% en 2027 (LIF 2027 en Diputados; retomar cuando salga en el DOF), RESICO tope 5 millones (reforma ISR 2027 en Diputados; retomar cuando lo apruebe el Senado o salga en el DOF), Ley de Economía Digital (aprobación en Diputados; se puede retomar cuando la apruebe el Senado o se publique en el DOF), Buen Fin 2026, presentación de Berny, Paquete Económico 2027, deducciones personales, cierre fiscal 2026, RESICO, 5 cosas que nunca haría, primeros clientes como contador (parte 1; parte 2 pendiente: convertir prospectos en clientes), ingresos que no pagan ISR (parte 1; la parte 2 queda pendiente: venta de casa habitación, seguros, aguinaldo/prima/PTU exentos, etc.).

diff --git a/recursos/GUIA-ESTILO.md b/recursos/GUIA-ESTILO.md
@@ -169,3 +169,14 @@ Pedido por Berny el 18 oct 2026: cada lunes a las 9:00, un carrusel con un tema 
 - **Cierre:** `cierre()` con una pregunta del tema y el texto "En GGTZ te ayudamos con tu empresa: constitución, marcas, contratos y temas laborales." y botón "Agenda tu asesoría".
 - **Pie de foto:** gancho, 3–5 líneas de valor, "En GGTZ Consultores te ayudamos con tu empresa 👉 81 2758 0277", pregunta para comentar y 3–5 hashtags (#Emprendedores #Empresas #MarcaRegistrada #DerechoLaboral #Monterrey según el tema).
 - **Publicación:** lunes 9:00 (America/Monterrey).
+
+## Formato de lunes 7:00: "Tu dosis semanal" (desde 26 oct 2026)
+
+Pedido por Berny el 25 oct 2026: cada lunes a las 7:00, un carrusel con lo más relevante de la semana anterior (lunes a domingo) en lo **fiscal, laboral y legal**, muy llamativo, "mientras te tomas el cafecito mañanero", sin perder la identidad de marca. Referencia aprobada: `plantillas/_gen_dosis_2026_10_26.py` (Dos1-*). Convive con el "Lunes legal" de las 9:00 (no repetir la misma noticia en los dos).
+
+- **5 láminas:** portada + 3 "sorbos" (uno FISCAL, uno LABORAL/IMSS, uno LEGAL) + `cierre()`. Si una semana no hay noticia de alguna categoría, se usa otra de las dos, pero siempre 3 sorbos.
+- **Portada:** foto de café de Berny (`vida-cafe-terraza-playa` u otra foto suya con café si la hay) con degradado oscuro arriba, etiqueta "☕ TU DOSIS SEMANAL · <fechas>", título "Lo que pasó esta semana, mientras te tomas el cafecito" (se puede variar la redacción, siempre con el cafecito), chips FISCAL / LABORAL / LEGAL, sello BL y "3 sorbos →".
+- **Cada sorbo:** fondo degradado distinto (`grad()`), "☕ SORBO N" + chip de categoría (azul polvo fiscal, salvia laboral, terracota legal), la taza de línea arriba a la derecha, titular de gancho en Archivo 104 px con la palabra clave en marcador, una cifra o dato gigante (150 px) cuando lo hay, 2–3 renglones de qué pasó, y la caja "¿Y A TI QUÉ?" con la consecuencia práctica. Fuente en el pie.
+- **Cierre:** `cierre()` con "¿Cuál de los 3 te pegó más?" y "Comenta 1, 2 o 3 y guárdalo para tu próximo cafecito ☕".
+- **Noticias:** de la semana anterior, verificadas en fuente oficial (DOF, SAT, IMSS, STPS, Congreso, SCJN, Luthor) o dos medios serios; estatus claro (aprobada, en comisiones, vigente). No repetir lo del Chismesito del domingo ni lo del miércoles salvo que haya avance nuevo.
+- **Publicación:** lunes 7:00 (America/Monterrey). Carpeta `AAAA-MM-DD-dosis-semanal/`.
